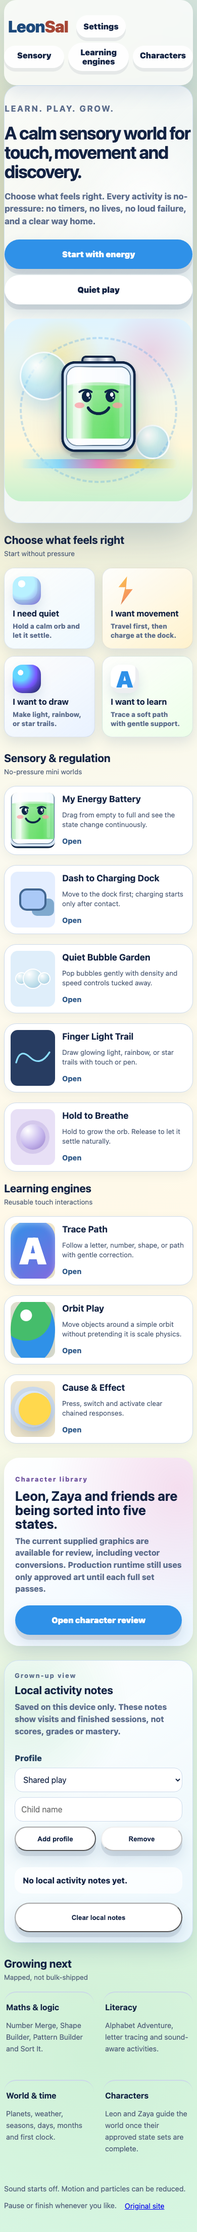
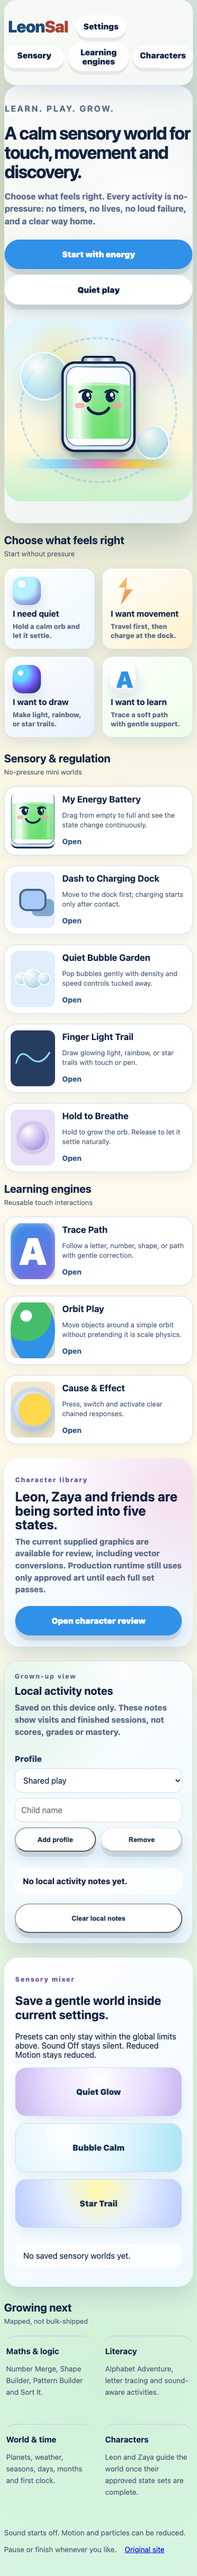
Implement V2 sensory mixer foundation

diff --git a/v2-engine.js b/v2-engine.js
@@ -1134,6 +1134,67 @@ const LeonSalV2 = (() => {
     }
   }
 
+  class SensoryMixerEngine extends EventBus {
+    constructor(settings, options = {}) {
+      super();
+      this.settings = settings;
+      this.key = options.key || 'leonsal-v2-sensory-worlds';
+      this.presets = options.presets || [
+        { id: 'quiet-glow', name: 'Quiet Glow', visualTheme: 'glow', motionRequest: false, soundRequest: false, particleRequest: 'off', speedRequest: 'slow', calmCompatible: true, reducedMotionFallback: 'static-glow', exitAlwaysAvailable: true },
+        { id: 'bubble-calm', name: 'Bubble Calm', visualTheme: 'bubbles', motionRequest: true, soundRequest: false, particleRequest: 'low', speedRequest: 'slow', calmCompatible: true, reducedMotionFallback: 'tap-bubbles', exitAlwaysAvailable: true },
+        { id: 'star-trail', name: 'Star Trail', visualTheme: 'stars', motionRequest: true, soundRequest: false, particleRequest: 'gentle', speedRequest: 'normal', calmCompatible: true, reducedMotionFallback: 'still-stars', exitAlwaysAvailable: true }
+      ];
+      this.savedWorlds = [];
+      this.load();
+    }
+    load() {
+      try {
+        const saved = JSON.parse(localStorage.getItem(this.key) || '[]');
+        if (Array.isArray(saved)) this.savedWorlds = saved.filter((world) => world?.id && world?.presetId);
+      } catch (_error) {
+        /* Saved worlds are optional. */
+      }
+    }
+    save() {
+      try { localStorage.setItem(this.key, JSON.stringify(this.savedWorlds)); } catch (_error) { /* optional */ }
+      this.emit('save', this.savedWorlds);
+    }
+    capPreset(preset) {
+      const current = this.settings.value;
+      const capped = {
+        motion: Boolean(preset.motionRequest && this.settings.allowsMotion()),
+        sound: Boolean(preset.soundRequest && current.sound),
+        vibration: false,
+        particles: current.calmMode ? 'off' : this.capParticles(preset.particleRequest, current.particles),
+        speed: this.capSpeed(preset.speedRequest, current.speed),
+        visualTheme: preset.visualTheme,
+        reducedMotionFallback: current.reducedMotion ? preset.reducedMotionFallback : null,
+        exitAlwaysAvailable: preset.exitAlwaysAvailable === true
+      };
+      return capped;
+    }
+    capParticles(requested = 'gentle', current = 'gentle') {
+      const rank = { off: 0, low: 1, gentle: 2 };
+      const capped = Math.min(rank[requested] ?? 2, rank[current] ?? 2);
+      return Object.keys(rank).find((key) => rank[key] === capped) || 'off';
+    }
+    capSpeed(requested = 'normal', current = 'normal') {
+      const rank = { slow: 0, normal: 1, lively: 2 };
+      const capped = Math.min(rank[requested] ?? 1, rank[current] ?? 1);
+      return Object.keys(rank).find((key) => rank[key] === capped) || 'slow';
+    }
+    applyPreset(id) {
+      const preset = this.presets.find((item) => item.id === id);
+      if (!preset) return null;
+      const world = { id: `world-${Date.now().toString(36)}`, presetId: id, name: preset.name, effective: this.capPreset(preset), savedAt: new Date().toISOString() };
+      this.savedWorlds.unshift(world);
+      this.savedWorlds = this.savedWorlds.slice(0, 6);
+      this.save();
+      this.emit('apply', world);
+      return world;
+    }
+  }
+
   class HintFeedbackEngine extends EventBus {
     constructor(options = {}) {
       super();
@@ -1190,6 +1251,7 @@ const LeonSalV2 = (() => {
     PerformanceMonitorEngine,
     ProfileProgressStoreEngine,
     LocalProfileEngine,
+    SensoryMixerEngine,
     HintFeedbackEngine,
     SettingsPanel,
     clamp,

diff --git a/v2-proofs.css b/v2-proofs.css
@@ -1224,6 +1224,13 @@ body[data-calm="true"] .trail-starscape, body[data-calm="true"] .battery-spark, 
 .local-profile-tools label { font-weight: 900; color: #25405f; }
 .local-profile-tools select, .local-profile-tools input { min-height: 48px; border: 1px solid #cddbec; border-radius: 16px; padding: 0 12px; font: inherit; background: #fff; color: var(--ink); }
 .local-profile-tools button { min-height: 48px; }
+.hub-mixer-panel { margin: 28px 0; padding: 22px; border-radius: 28px; background: linear-gradient(135deg, #ffffff, #eef8ff); box-shadow: var(--shadow); }
+.mixer-presets { display: grid; grid-template-columns: repeat(3, 1fr); gap: 14px; margin: 16px 0; }
+.mixer-card { min-height: 96px; border: 1px solid #cddbec; border-radius: 22px; font: inherit; font-weight: 950; color: #173356; box-shadow: 0 10px 20px #2b5a8814; cursor: pointer; }
+.mixer-card:active { transform: translateY(2px) scale(.99); }
+.mixer-card.glow { background: radial-gradient(circle at 50% 25%, #fff, #e7ddff 55%, #c7b4ef); }
+.mixer-card.bubbles { background: radial-gradient(circle at 30% 25%, #fff, #dff5ff 50%, #a9e4f4); }
+.mixer-card.stars { background: radial-gradient(circle at 50% 18%, #fff8a8, #e6f1ff 45%, #b9c9ff); }
 .offline-shell { min-height: 100svh; display: grid; place-items: center; padding-top: 24px; }
 .offline-card { width: min(640px, 100%); border-radius: 34px; padding: clamp(28px, 8vw, 54px); background: rgba(255,255,255,.9); box-shadow: var(--deep-shadow); text-align: center; }
 .offline-card h1 { margin: 8px 0 10px; font-size: clamp(2rem, 7vw, 4rem); line-height: .98; letter-spacing: 0; }
@@ -1233,6 +1240,7 @@ body[data-calm="true"] .trail-starscape, body[data-calm="true"] .battery-spark, 
 @media (max-width: 480px) {
   .local-profile-tools { grid-template-columns: 1fr 1fr; }
   .local-profile-tools label, .local-profile-tools select, .local-profile-tools input { grid-column: 1 / -1; }
+  .mixer-presets { grid-template-columns: 1fr; }
   .world-game { display: grid; grid-template-columns: 88px 1fr; column-gap: 14px; padding: 12px; }
   .world-game .game-art { grid-row: 1 / 4; height: 110px; align-self: center; }
   .world-game h3 { margin: 2px 0 6px; }

diff --git a/js/v2-home.js b/js/v2-home.js
@@ -34,6 +34,9 @@
     'orbit-engine': 'Orbit Play',
     'cause-effect-engine': 'Cause & Effect'
   };
+  const mixer = new LeonSalV2.SensoryMixerEngine(settings);
+  const mixerPresets = document.getElementById('mixerPresets');
+  const mixerSummary = document.getElementById('mixerSummary');
 
   const renderProgress = () => {
     if (!progressHost) return;
@@ -93,6 +96,33 @@
     clearProgress.textContent = 'Local notes cleared';
     window.setTimeout(() => { clearProgress.textContent = 'Clear local notes'; }, 1300);
   });
+
+  const renderMixer = () => {
+    if (!mixerSummary) return;
+    if (!mixer.savedWorlds.length) {
+      mixerSummary.innerHTML = '<p>No saved sensory worlds yet.</p>';
+      return;
+    }
+    mixerSummary.innerHTML = mixer.savedWorlds.slice(0, 3).map((world) => {
+      const effective = world.effective || {};
+      return `<article><strong>${world.name}</strong><span>Motion ${effective.motion ? 'on' : 'off'} · Sound ${effective.sound ? 'on' : 'off'} · Particles ${effective.particles || 'off'} · Speed ${effective.speed || 'slow'}</span></article>`;
+    }).join('');
+  };
+  if (mixerPresets) {
+    mixerPresets.replaceChildren(...mixer.presets.map((preset) => {
+      const button = document.createElement('button');
+      button.type = 'button';
+      button.className = `mixer-card ${preset.visualTheme}`;
+      button.textContent = preset.name;
+      button.addEventListener('click', () => {
+        mixer.applyPreset(preset.id);
+        renderMixer();
+      });
+      return button;
+    }));
+  }
+  renderMixer();
+  mixer.on('save', renderMixer);
 
   toggle.addEventListener('click', () => {
     const open = host.dataset.open !== 'true';

diff --git a/v2-home.html b/v2-home.html
@@ -101,6 +101,16 @@
       <button class="hub-secondary" id="clearProgress" type="button">Clear local notes</button>
     </section>
 
+    <section class="hub-mixer-panel" aria-labelledby="mixer-title">
+      <div>
+        <p class="eyebrow">Sensory mixer</p>
+        <h2 id="mixer-title">Save a gentle world inside current settings.</h2>
+        <p>Presets can only stay within the global limits above. Sound Off stays silent. Reduced Motion stays reduced.</p>
+      </div>
+      <div class="mixer-presets" id="mixerPresets" aria-label="Sensory mixer presets"></div>
+      <div class="progress-summary" id="mixerSummary" aria-live="polite"></div>
+    </section>
+
     <section aria-labelledby="next-title">
       <div class="world-section-heading"><h2 id="next-title">Growing next</h2><span>Mapped, not bulk-shipped</span></div>
       <div class="planned-worlds hub-planned">

diff --git a/docs/LEONSAL_COMPLETION_CHECKLIST.md b/docs/LEONSAL_COMPLETION_CHECKLIST.md
@@ -39,6 +39,7 @@
 - [x] Verify the internal character review surface in Chromium and WebKit across phone, tablet and desktop widths, including vector review derivatives, missing-state fallback, dark-background inspection, reference lazy-load and no review-art leakage into gameplay.
 - [x] Add local-only V2 child profile switching for caregiver activity notes, with separate per-profile storage, no score/mastery claims, no medical/sensory-label inference, and mobile browser smoke evidence.
 - [x] Add repeated V2 route lifecycle stress coverage for all eight current activities, proving one active shell/control set per route, no leaked pause/inert state, reduced-motion reapplication, and no console/page errors across 24 mobile navigations.
+- [x] Implement the Sensory Mixer foundation on V2 home as local saved sensory-world presets that obey global preference ceilings and do not count as games.
 
 These changes remain preview work. They do not approve character art, claim production deployment, or complete all foundation contracts.
 
@@ -49,7 +50,7 @@ These changes remain preview work. They do not approve character art, claim prod
 - [x] Bridge legacy and V2 sensory preference stores for core controls. V2 now validates and exposes motion, sound, voice, music, vibration, calm mode, particles, speed, contrast and pace; the legacy home reads/writes shared motion, sound, vibration and contrast settings. Independent audio levels and deeper profile migration remain outstanding.
 - [x] Implement and verify eight foundation engine contracts: memory-recall, physics-play, character-state-animation, world-shell-progress, asset-loader, performance-monitor, profile-progress-store, hint-feedback. These are foundation primitives, not completed games.
 - [ ] Complete parent/profile controls, full error recovery and full offline behaviour. Local V2 activity notes now support separate local child profiles, and the safe V2 route cache plus navigation-only offline fallback avoid false saved/mastery claims; full caregiver controls and full offline UX are still not complete.
-- [ ] Implement Sensory Mixer using global preference ceilings; presets do not count as games.
+- [x] Implement Sensory Mixer foundation using global preference ceilings; presets do not count as games. Further work remains for a richer creator/editor flow.
 - [ ] Verify repeated route transitions, background suspension, full accessibility and physical iPhone Safari. Viewport-emulated repeated-route cleanup, accessibility and performance/long-task smoke checks now exist, but physical-device and full screen-reader evidence are still required.
 
 ## Character production requirements

diff --git a/docs/LEONSAL_SENSORY_MIXER_SPEC.md b/docs/LEONSAL_SENSORY_MIXER_SPEC.md
@@ -1,6 +1,6 @@
 # LeonSal Sensory Mixer Spec
 
-The Sensory Mixer is specified here for future implementation. It is not complete in this adoption task.
+The Sensory Mixer now has a foundation implementation for local saved sensory-world presets. It is not a completed game system, and presets do not count as games.
 
 ## Purpose
 
@@ -25,3 +25,7 @@ A preset records ID, name, visual theme, requested motion, requested sound, requ
 ## Product Count Rule
 
 Mixer presets, aliases, variants, and saved worlds are not separate completed games. They are configurations of approved sensory concepts and reusable engines.
+
+## Current Foundation
+
+The current V2 home exposes three local preset examples: Quiet Glow, Bubble Calm, and Star Trail. They are saved only in local browser storage and resolve through the shared settings engine. The implementation must keep Sound Off silent, keep Reduced Motion reduced, cap particles and speed to the current global ceiling, avoid inferred medical/sensory labels, and keep a visible exit path.
